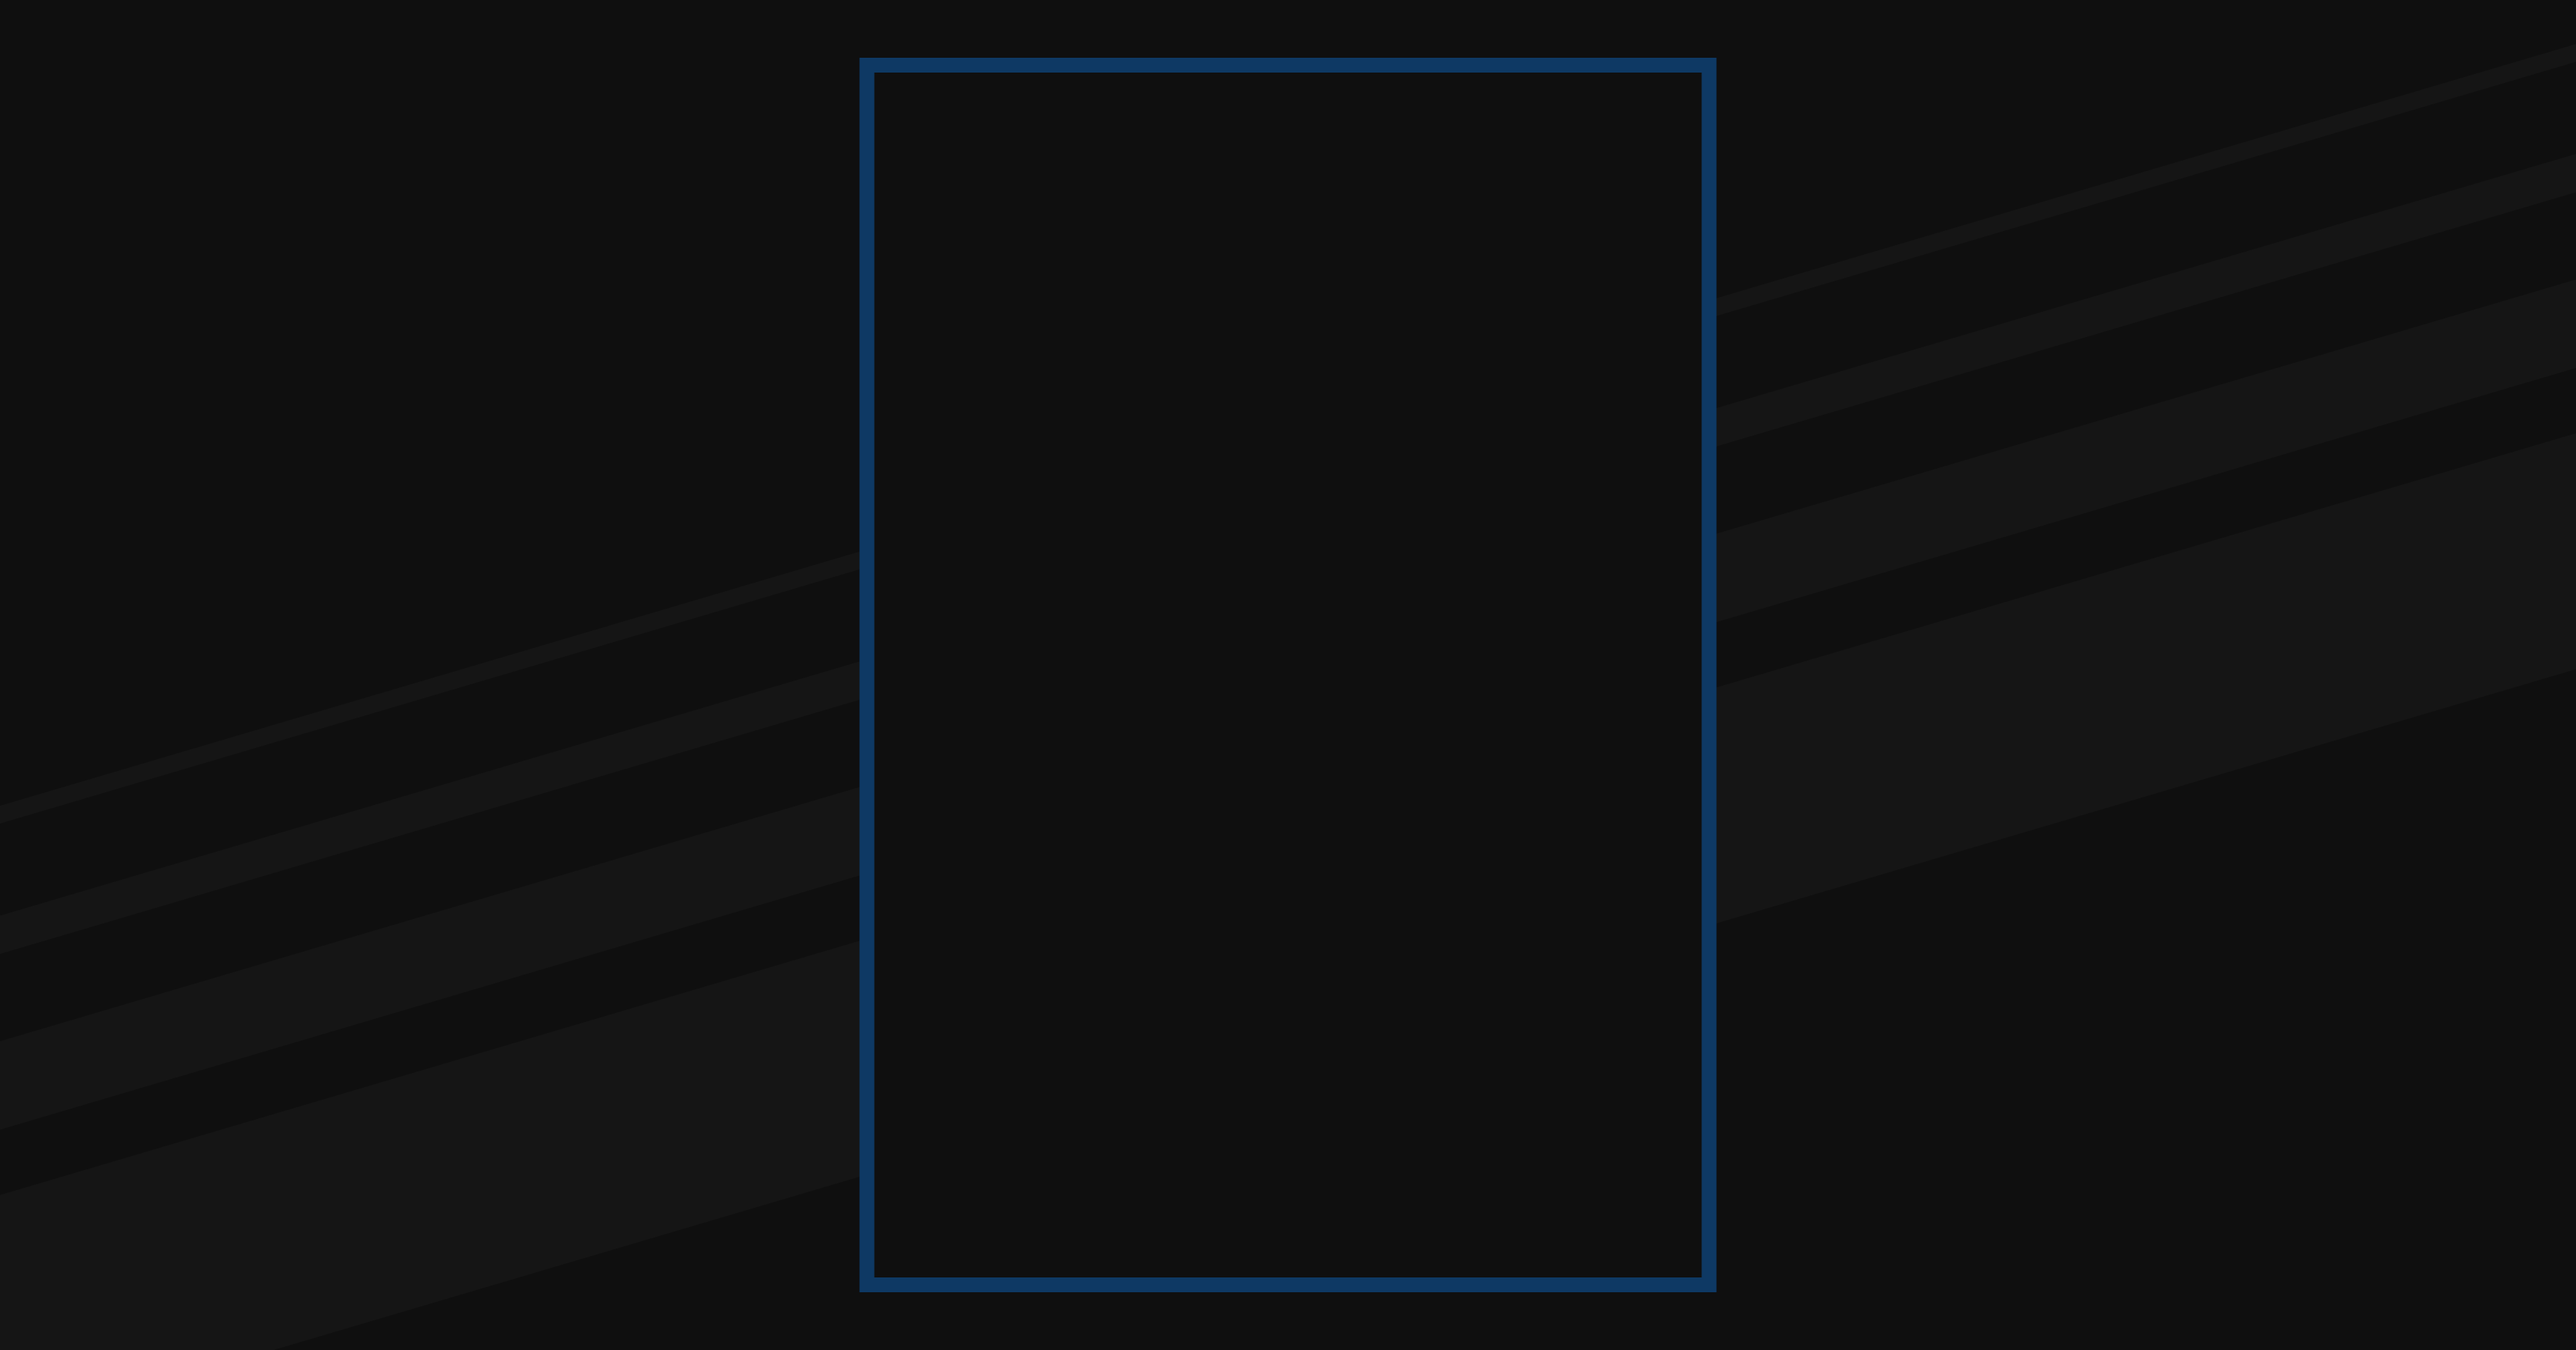
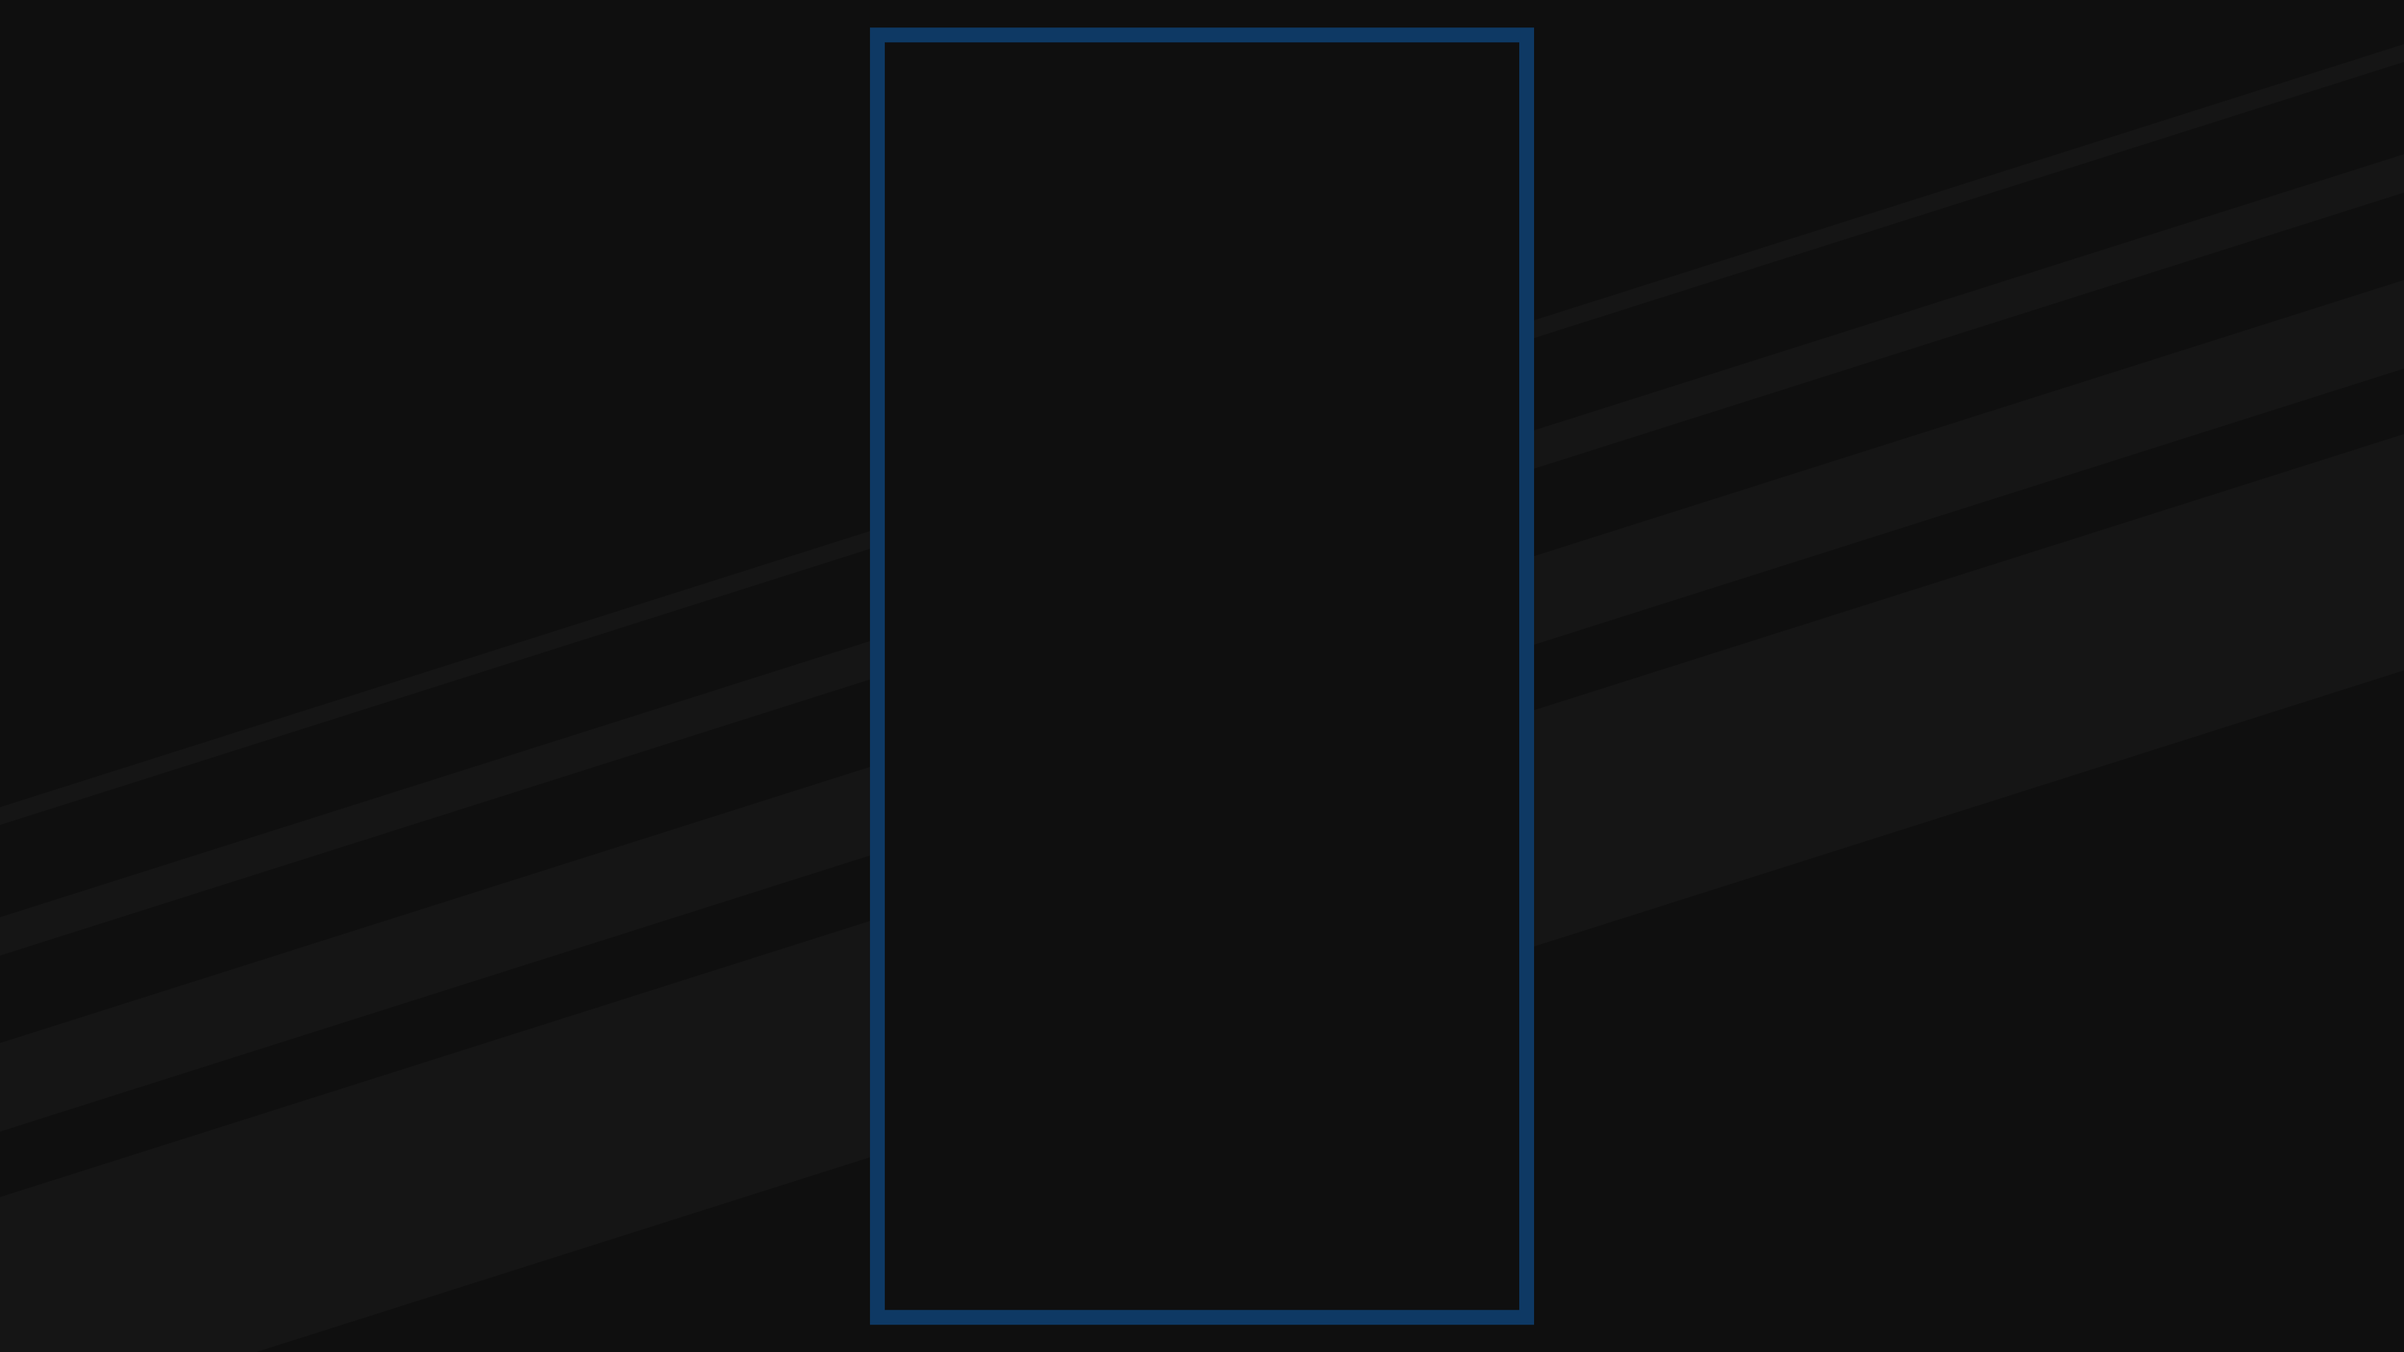
Commit: UI Update         -Changed Background Texture         -Enhanced user experience         -Removed Herobrine

Changed region(s): [[0.3111, 0.0, 0.6843, 0.983]]

diff --git a/src/Var/Var.java b/src/Var/Var.java
@@ -10,13 +10,13 @@ public class Var {
     public static int currentid = 1; //ID des aktiven/fallenden Blöcken
     public static String gameState = "startup";
     public static int fps = 60;
-    public static int m = 15; //Höhe
+    public static int m = 20; //Höhe
     public static int n = 10; //Breite
     public static int tilesX = n; //Anzahl der Felder in x Richtung
     public static int tilesY = m; //Anzahl der Felder in y Richtung
-    public static int tilePadding = 5; //Felderabstand
-    public static int tileStartX = 438, tileStartY = 622; //Startposition Spielfeld
-    public static int tileSize = 36; //Kantenlänge der Felder
+    public static int tilePadding = 3; //Felderabstand
+    public static int tileStartX = 472, tileStartY = 646; //Startposition Spielfeld
+    public static int tileSize = 31; //Kantenlänge der Felder
     public static Box spielfeld[][] = new Box[n][m]; //Spielfeld mit Box-Objekten
     public static int width = 1280, height = 720;
     public static Color backgroundColor = new Color(24, 21, 33);
